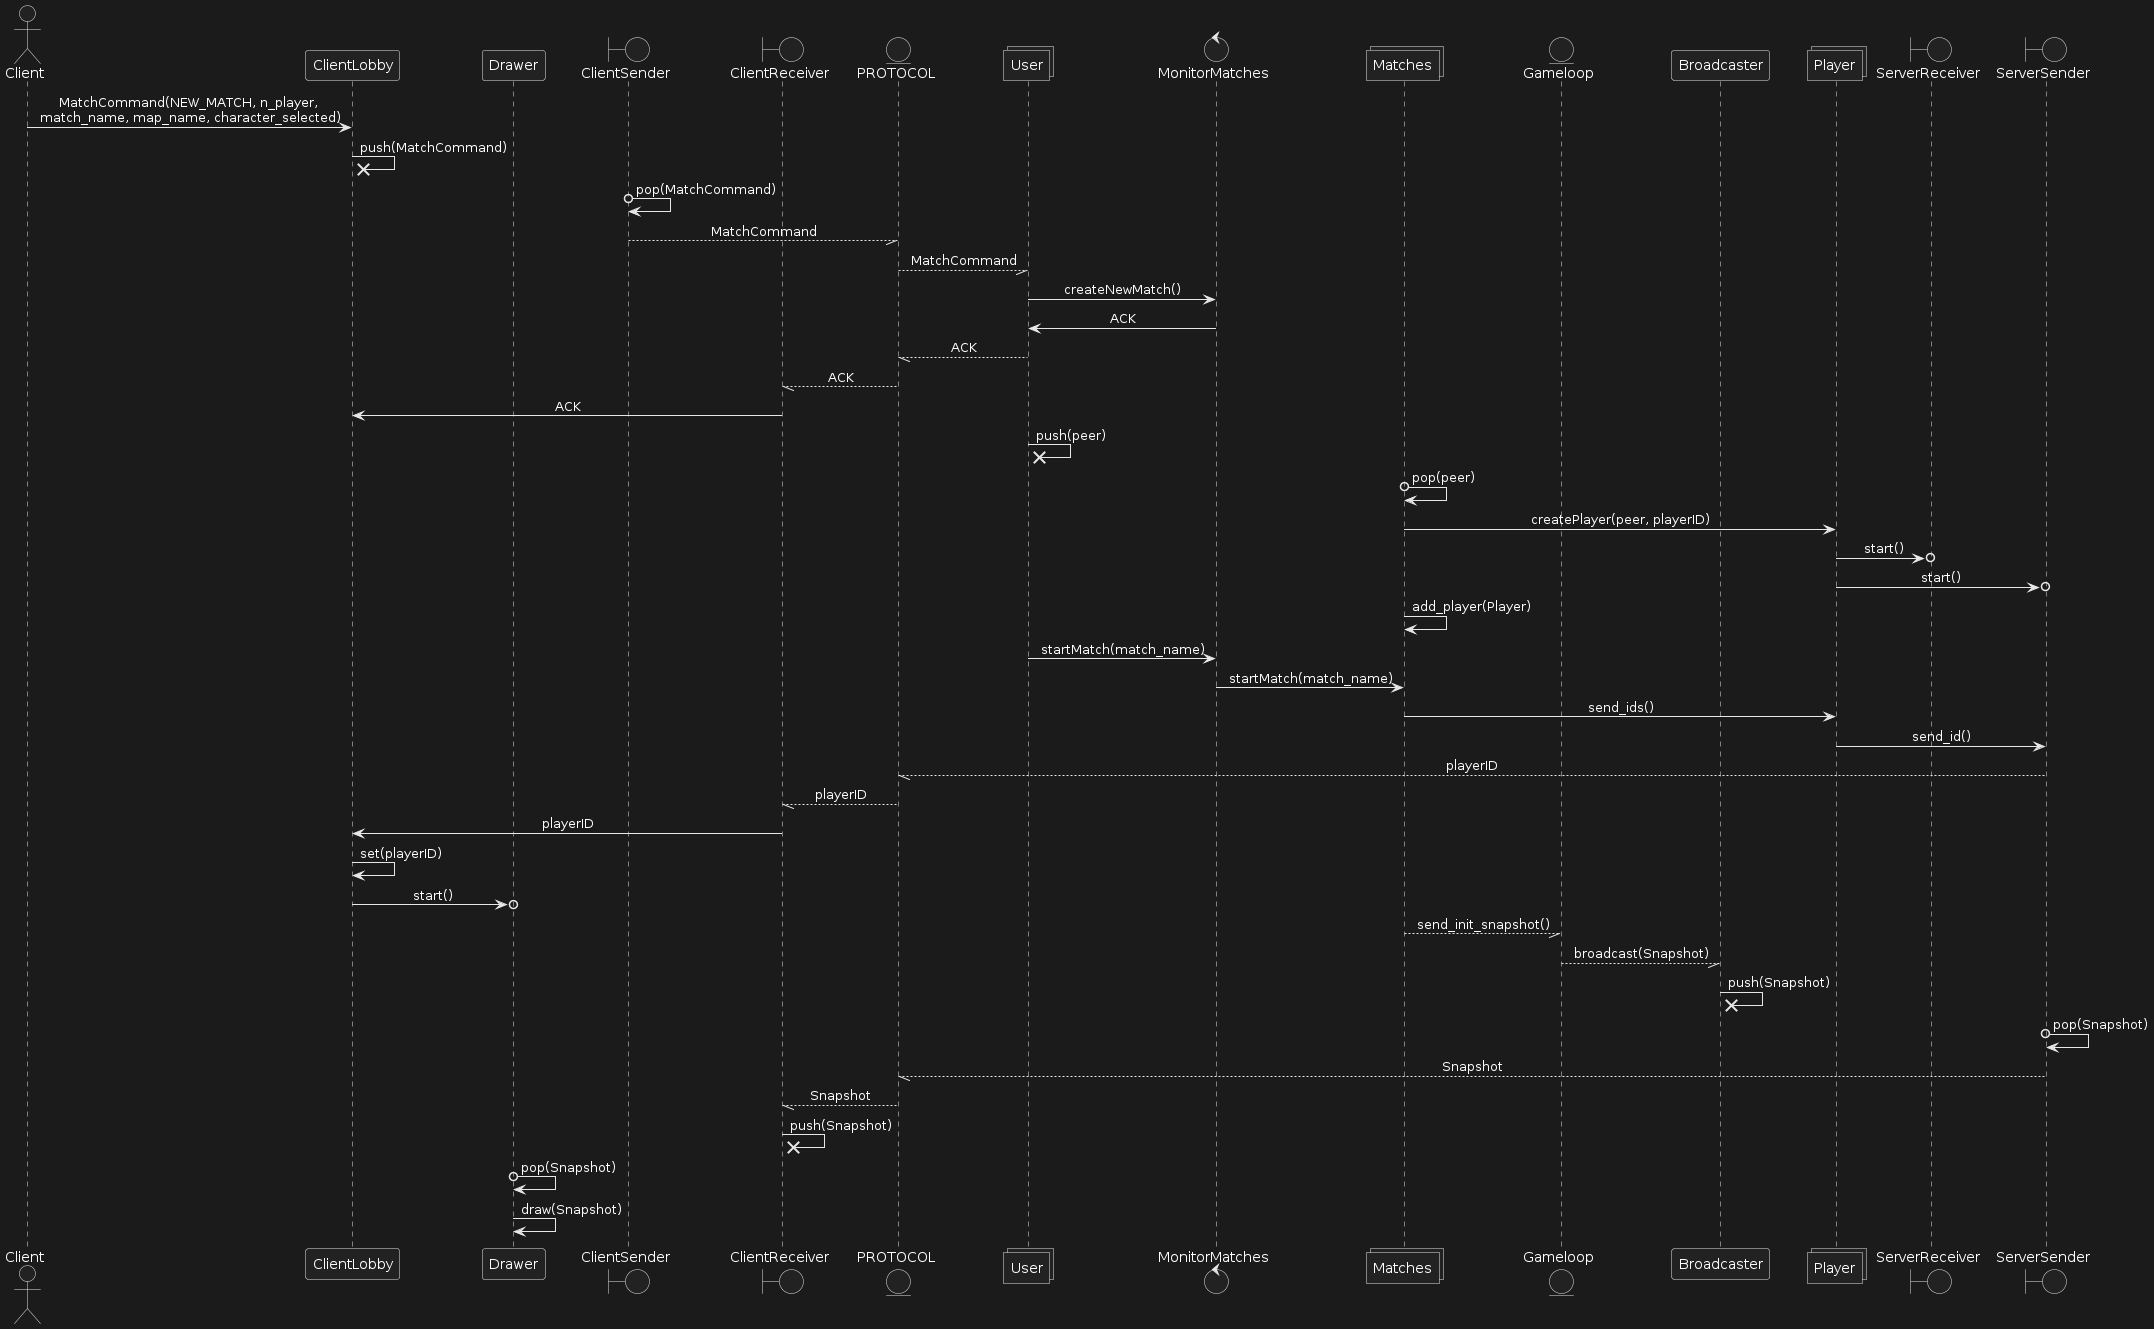
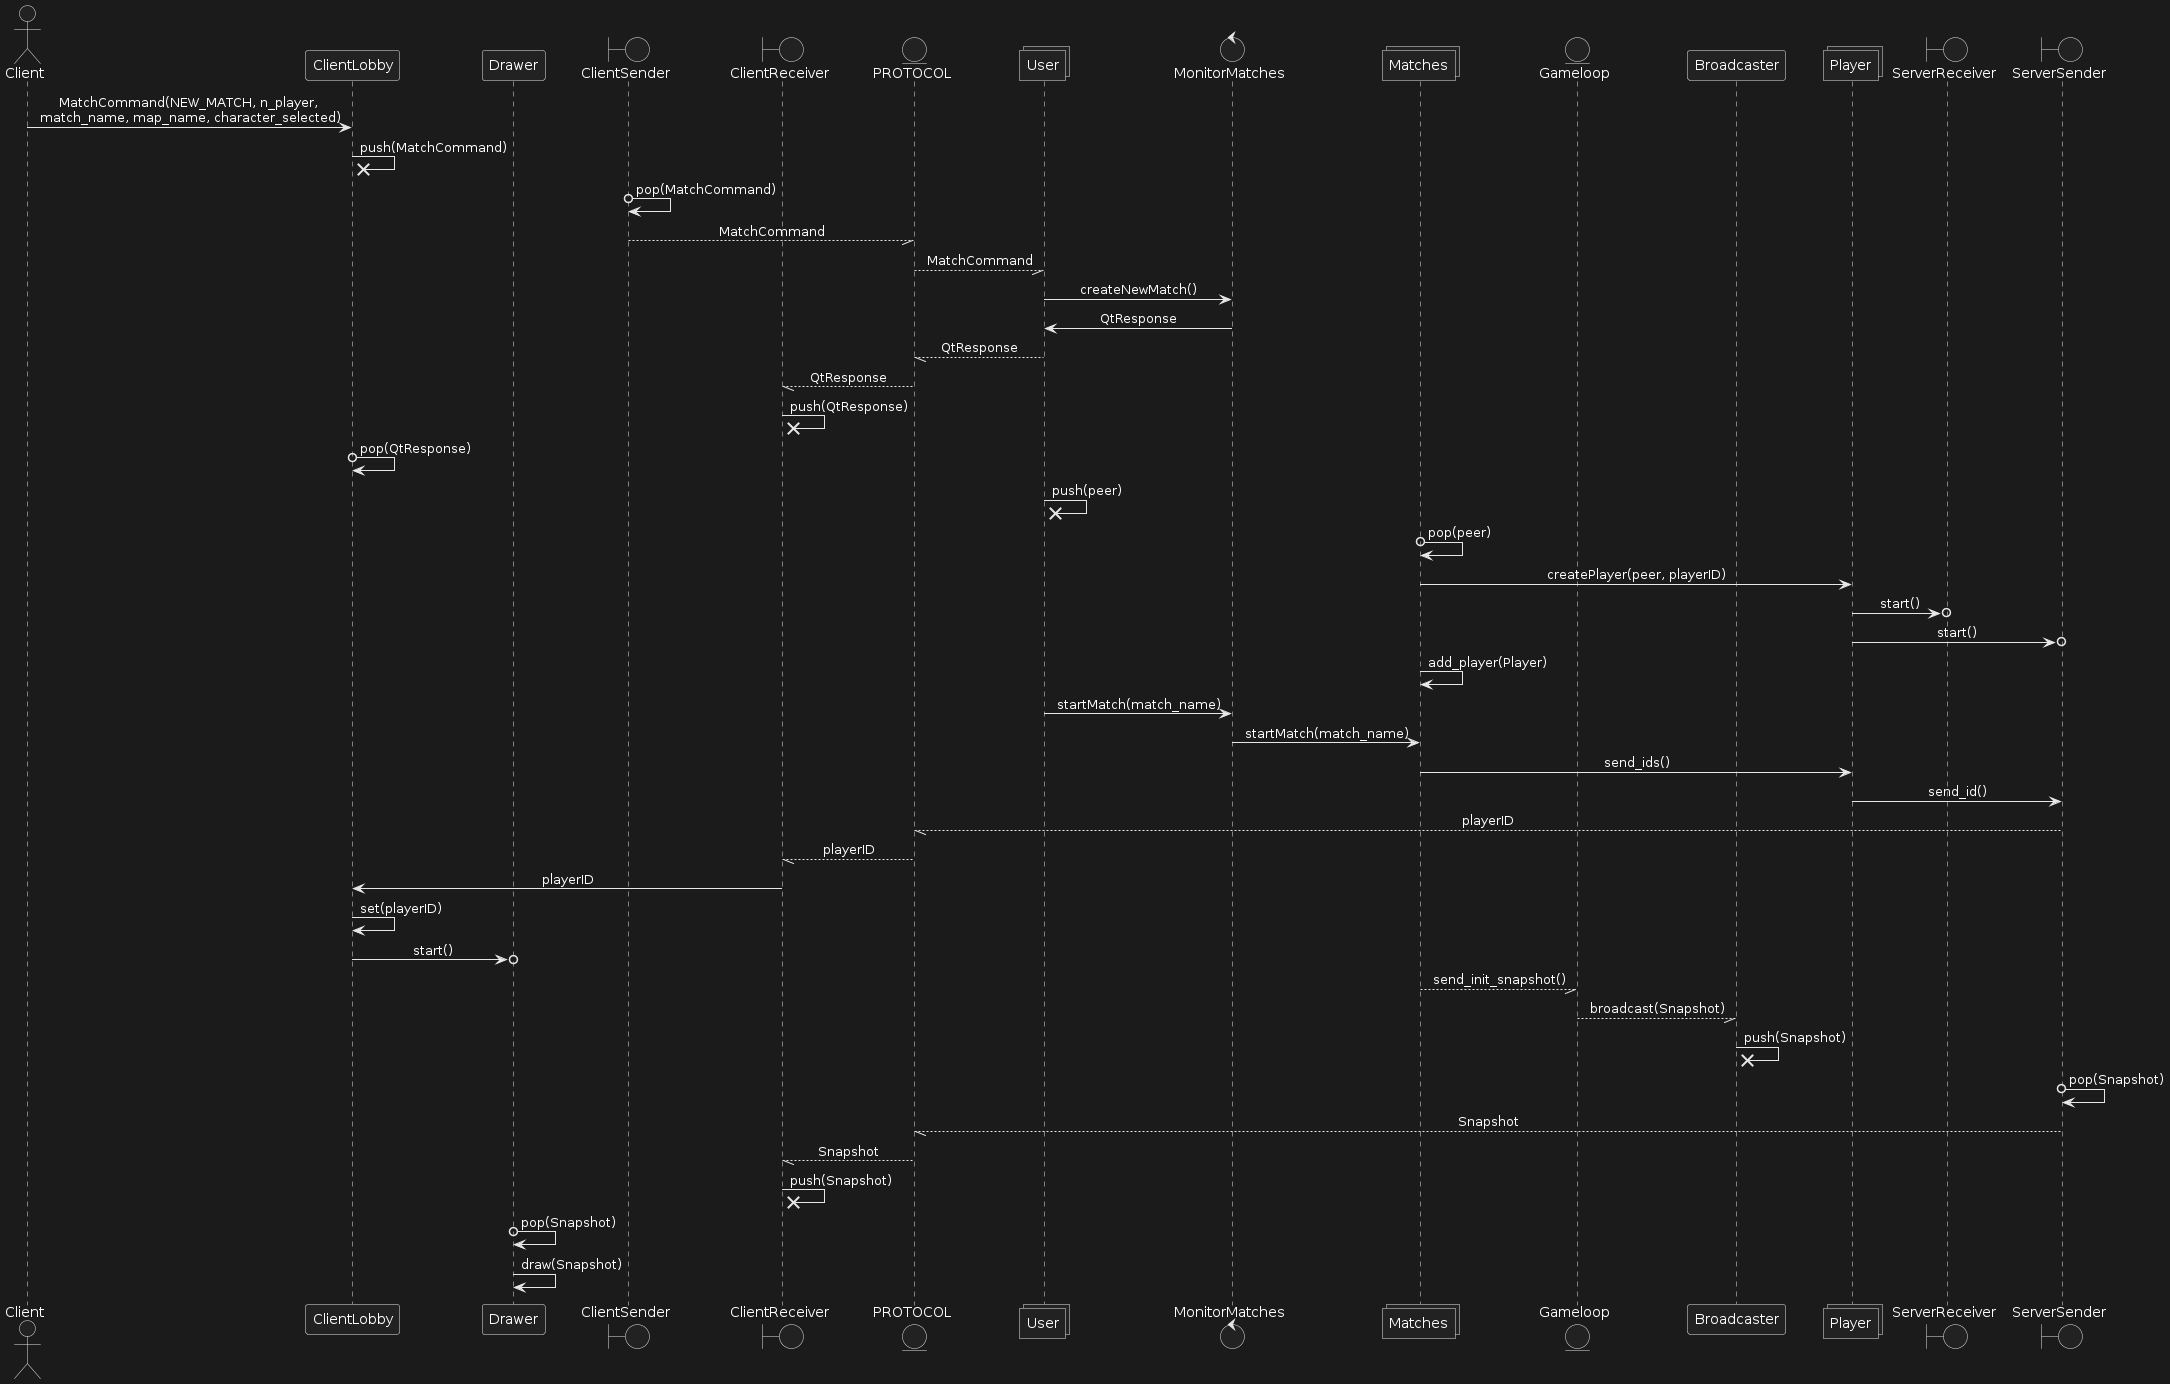
Docs: technical_documentation

diff --git a/documentation/technical_documentation.md b/documentation/technical_documentation.md
@@ -51,7 +51,7 @@ By utilizing these queues, the game can effectively manage communication and dat
 
 For the Lobby interface, we used Qt, a powerful framework for creating cross-platform applications. Qt allowed us to design and implement an intuitive and responsive user interface. In the Lobby, users can interact with several buttons to perform various actions:
 
-- Create a Map: Opens a dialog where users can design and save custom maps for their matches.
+- Create or edit a Map: Opens a dialog where users can design and save custom maps for their matches.
 - Create a Game: Allows users to set up a new game by selecting options such as number of players and map.
 - Join a Game: Provides a list of available matches that users can join.
 
@@ -87,6 +87,13 @@ Moreover, when a Client initiates a new match, the Acceptor thread, specifically
 
 By handling both the pre-game setup and the in-game logic, the server plays a pivotal role in maintaining the integrity and functionality of the game, providing a seamless and enjoyable experience for all players.
 
+## Client
+> Client class diagram 
+
+![IMG](UMLS/client.png)
+
+The Client is responsible for interacting with the player. It handles displaying the lobby and drawer interfaces on the screen, as well as capturing and sending the keys pressed by the player.
+
 ## PROTOCOL 
 
 > Protocol class diagram
@@ -107,7 +114,7 @@ Now that the Protocol has been explained, let's see how some commands are execut
 
 ![IMG](UMLS/start_match.png)
 
-When a player on the Client side initiates a request to create a new match, the process begins with the Client sending a MatchCommand containing essential details such as match type, player name, match name, selected map, and chosen character. The ClientLobby, responsible for managing Client interactions within the lobby environment and queues up this MatchCommand for further processing. Next, the Client Sender retrieves the MatchCommand from the queue and transmits it to the server using the specified communication protocol. On the server side, the Server receives this command. The MonitorMatches handles the creation of new matches, ensuring that the server acknowledges the receipt of this command and the creation of the match back to the Client Receiver.
+When a player on the Client side initiates a request to create a new match, the process begins with the Client sending a MatchCommand containing essential details such as match type, player name, match name, selected map, and chosen character. The ClientLobby, responsible for managing Client interactions within the lobby environment and queues up this MatchCommand for further processing. Next, the Client Sender retrieves the MatchCommand from the queue and transmits it to the server using the specified communication protocol. On the server side, the Server receives this command. The MonitorMatches handles the creation of new matches, ensuring that the server acknowledges (QtResponse) the receipt of this command and the creation of the match back to the Client.
 
 We would like to mention the importance of this MonitorMatches which uses a mutex to ensure thread safety and prevent concurrent access issues when managing the creation and monitoring of matches on the server side. In a multi-threaded environment, multiple threads may attempt to access and modify shared resources (such as the list of matches or player assignments) simultaneously. This can lead to race conditions where the outcome of operations becomes unpredictable or erroneous.
 
@@ -172,3 +179,20 @@ There are three scenarios where a match can come to an end:
 In the cases where a user wins, or all players leave, the match is closed and marked as inactive. If an attempt is made to create a match with a name that is still active, an error will be returned, indicating that the name is currently in use. This ensures that match names are unique and that ongoing matches are not disrupted by attempts to reuse existing names. 
 
 When a match concludes, all associated resources are released appropriately. This includes deallocating memory, closing network connections, and disposing of any game objects to prevent memory leaks. Proper resource management is crucial to ensure that no memory blocks (heap blocks) are left with residual information, which could otherwise lead to increased memory usage and potential crashes. By freeing up these resources, the system maintains optimal performance and stability, allowing new matches to be created and run efficiently.
+
+## How does the lobby work?
+
+> Lobby class diagram
+![IMG](UMLS/lobby.png)
+
+The lobby has a very practical and intuitive way of functioning. Players can select their character and create or join games as they wish. When creating a game, the user can configure it as desired (number of players, map, and game name). After creating the game, the user will enter a waiting room until the selected number of players is reached.
+
+From the join game window, players can view the complete list of all available games. The lobby also allows the player to create and edit maps to their liking, being able to configure various parameters such as the map's height and width, the desired texture, the maximum number of players, each block of the map, and the spawn points for each entity.
+
+
+## How does the drawer work?
+
+> drawer class diagram
+![IMG](UMLS/drawer.png)
+![IMG](UMLS/sdl_miscellaneous.png)
+![IMG](UMLS/texture_povider.png)

diff --git a/documentation/project_report.md b/documentation/project_report.md
@@ -42,9 +42,14 @@ For this project, each team member chose to undertake different tasks, involving
 
 ### Ian von der Heyde
 
+- **COMPILATION**: Created CMake files for project compilation.
+
 - **QT**: Utilized an external library (QT) to create the game's lobby, providing an intuitive and visually appealing interface for players to navigate and interact with.
 
-- **CLIENT**: Designed and implemented the logic for clients, orchestrating their connection to the server and enabling them to receive game snapshots while sending commands seamlessly. He ensured a smooth and responsive gameplay experience by managing the flow of data between clients and the server, facilitating real-time interactions within the game environment.
+- **CLIENT**: Designed and implemented the logic for clients, orchestrating their connection to the server and enabling them to receive server responses and game snapshots while sending commands seamlessly. He ensured a smooth and responsive gameplay experience by managing the flow of data between clients and the server, facilitating real-time interactions within the game environment.
+
+- **DOCUMENTATION**: he created UML diagrams to assist with project documentation.
+
 
 In addition to the specific responsibilities assigned to each team member, we all applied optimal object-oriented programming logic to ensure a modular and scalable software design. We efficiently employed concepts such as inheritance, encapsulation, polymorphism, and abstraction to create clean and maintainable code.
 
@@ -58,7 +63,7 @@ None of us had prior experience in developing a project of this scale. We divide
 
 - **Server Logic and Protocol:** One team member focused on developing the server-side logic and handling communication protocols.
 - **Game Physics and Logic:** Another team member worked on the physics and core game logic to ensure smooth gameplay.
-- **QT and Client Logic:** A third team member was responsible for the client-side logic and user interface using QT.
+- **QT and Client Logic:** A third team member was responsible for the client-side logic and user interface using QT, and also contributed to the communication logic.
 - **SDL and Map Editor Development:** The final team member handled the development of SDL-related features and the map editor.
 
 During the first week, we concentrated on getting familiar with the specific libraries we would be using, such as QT and SDL. We also learned how to create and use shell scripts (.sh files) for quick installation and compilation of the game. This preparation was crucial for streamlining our development process and ensuring that everyone had a solid understanding of the tools and technologies involved.

diff --git a/documentation/user_manual.md b/documentation/user_manual.md
@@ -90,13 +90,13 @@ Choose your character wisely, as each one offers a unique gameplay experience an
 
 When you select to create a match you have several options to customize your game. Here's a step-by-step guide:
 
-> **NOTE**: The game supports up to 3 players, allowing for exciting multiplayer action.
+> **NOTE**: The default maps supports up to 3 players, allowing for exciting multiplayer action.
 
 1. ***Choose number of players***: You can select the number of players for your match. 
 
-2. ***Select a map***: You have the option to choose from a variety of maps. Some of the default maps include "Jungle" and "Carrotus." Additionally, you can create your own custom maps for a unique gaming experience.
+2. ***Name your match***: Give your match a unique name in the "Match Name" field. This helps you and your friends easily identify and join the match.
 
-3. ***Name your match***: Give your match a unique name in the "Match Name" field. This helps you and your friends easily identify and join the match.
+3. ***Select a map***: You have the option to choose from a variety of maps. Some of the default maps include "Jungle" and "Carrotus." Additionally, you can create your own custom maps for a unique gaming experience.
 
 <p align="center">
    <img src="utils_png/map_selector.png" alt="IMG" width="600" height="500">
@@ -152,6 +152,8 @@ Here's a breakdown of the different tools available:
 </p>
 
 Use these tools to creatively design and customize your map, ensuring it fits the desired gameplay experience!
+
+> ⚠ **WARNING: don't forget to set as many rabbits spawn points as the maximum number of players you've selected** ⚠
 
 ## How to join a match
 
